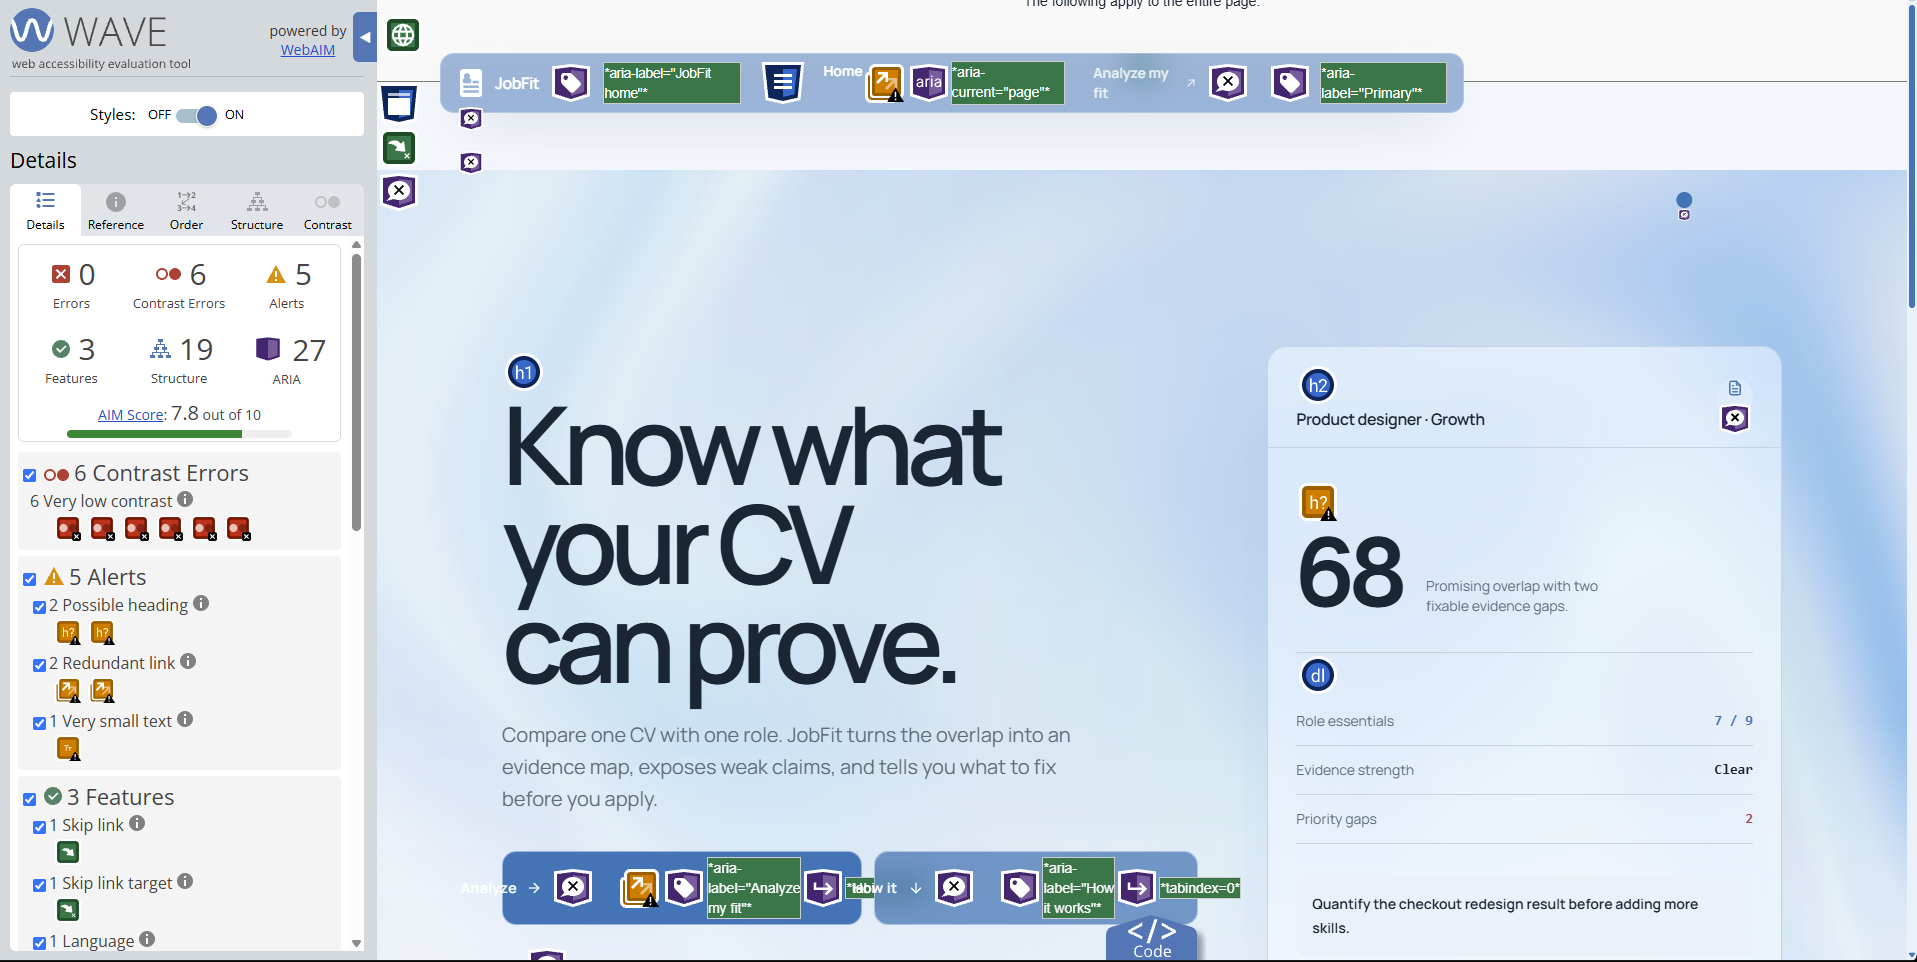
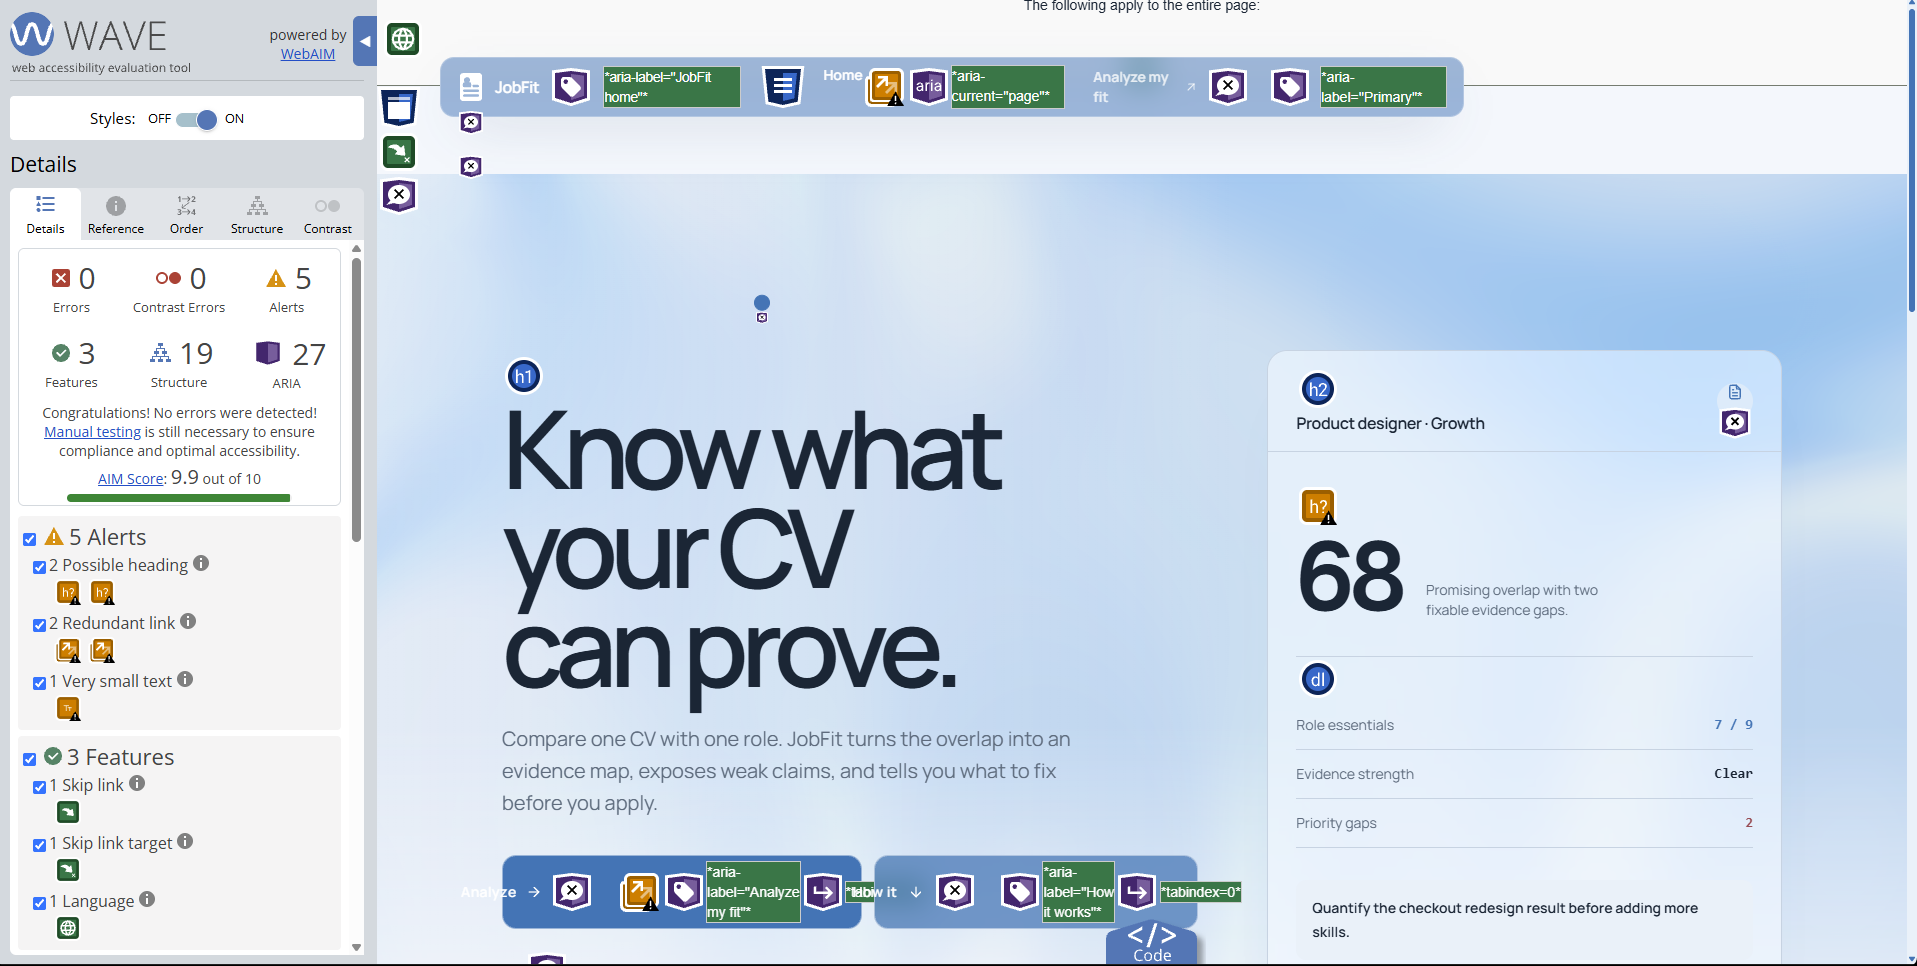
chore: finalize capstone submission

diff --git a/src/components/analyze/AnalyzeWorkspace.test.tsx b/src/components/analyze/AnalyzeWorkspace.test.tsx
@@ -19,6 +19,29 @@ describe("AnalyzeWorkspace", () => {
     expect(screen.getByText("Please provide a job description.")).toBeInTheDocument();
   });
 
+  it("keeps the complete form flow keyboard accessible", async () => {
+    const user = userEvent.setup();
+    render(<AnalyzeWorkspace />);
+
+    const cvInput = screen.getByLabelText("CV");
+    const uploadButton = screen.getByRole("button", { name: /Drop your PDF here/ });
+    const jobDescription = screen.getByLabelText("Job description");
+    const submitButton = screen.getByRole("button", { name: "Analyze my fit" });
+
+    await user.tab();
+    expect(cvInput).toHaveFocus();
+    await user.tab();
+    expect(uploadButton).toHaveFocus();
+    await user.tab();
+    expect(jobDescription).toHaveFocus();
+    await user.tab();
+    expect(submitButton).toHaveFocus();
+
+    await user.keyboard("{Enter}");
+    expect(screen.getByText("Please upload your CV first.")).toBeInTheDocument();
+    expect(screen.getByText("Please provide a job description.")).toBeInTheDocument();
+  });
+
   it("shows the loading state and then the analysis", async () => {
     const user = userEvent.setup();
     vi.stubGlobal(

diff --git a/src/app/error.test.tsx b/src/app/error.test.tsx
@@ -1,0 +1,25 @@
+import { render, screen } from "@testing-library/react";
+import userEvent from "@testing-library/user-event";
+import { afterEach, describe, expect, it, vi } from "vitest";
+import ErrorPage from "@/app/error";
+
+describe("route error recovery", () => {
+  afterEach(() => {
+    vi.restoreAllMocks();
+  });
+
+  it("offers retry and home recovery actions", async () => {
+    const user = userEvent.setup();
+    const retry = vi.fn();
+    const error = Object.assign(new Error("Route failed"), { digest: "test-digest" });
+    vi.spyOn(console, "error").mockImplementation(() => undefined);
+
+    render(<ErrorPage error={error} retry={retry} />);
+
+    expect(screen.getByRole("heading", { name: "We could not load this page." })).toBeInTheDocument();
+    expect(screen.getByRole("link", { name: "Return home" })).toHaveAttribute("href", "/");
+
+    await user.click(screen.getByRole("button", { name: "Try again" }));
+    expect(retry).toHaveBeenCalledOnce();
+  });
+});

diff --git a/docs/audit-results.md b/docs/audit-results.md
@@ -1,6 +1,6 @@
 # Audit results
 
-Production audit evidence was captured on September 24, 2026. The screenshots use the `jobfit-ai-app.vercel.app` Vercel alias; its content matched the canonical production URL, `https://jobfit-one-alpha.vercel.app`, at the time of the audit. The canonical URL is confirmed by the production `robots.txt` and sitemap.
+Production audit evidence was captured on September 24, 2026, and the corrected home-page WAVE result was captured on September 25, 2026. The screenshots use the `jobfit-ai-app.vercel.app` Vercel alias; its content matched the canonical production URL, `https://jobfit-one-alpha.vercel.app`, at the time of the audit. The canonical URL is confirmed by the production `robots.txt` and sitemap.
 
 ## Accessibility
 
@@ -15,18 +15,16 @@ Implementation checks:
 
 | Tool | Route | Errors | Contrast errors | Alerts | AIM score | Evidence |
 | --- | --- | ---: | ---: | ---: | ---: | --- |
-| WAVE | `/` | 0 | 6 | 5 | 7.8 / 10 | [`wave_mainPage.png`](./wave_mainPage.png) |
+| WAVE | `/` | 0 | 0 | 5 | 9.9 / 10 | [`wave_mainPage.png`](./wave_mainPage.png) |
 | WAVE | `/analyze` | 0 | 0 | 1 | 10 / 10 | [`wave_analyze.png`](./wave_analyze.png) |
 
-### Known accessibility limitation
+### Alert review
 
-The WAVE scan of `/` reports six very-low-contrast findings in the hero. They are low-emphasis supporting text over the light animated visual. The current visual treatment is intentional and remains readable in the manually reviewed rendered page, but this is not equivalent to passing WCAG contrast requirements. The issue is recorded rather than hidden or reported as a clean accessibility result. The `/analyze` route has no WAVE errors or contrast errors.
-
-WAVE also reports non-blocking advisory alerts: five on `/` and one redundant-link alert on `/analyze`. They do not represent WAVE errors.
+The remaining WAVE items are advisory alerts rather than detected WCAG errors. On `/`, two possible-heading alerts identify prominent display text inside illustrative content, two redundant-link alerts reflect repeated navigation destinations, and one very-small-text alert identifies a short decorative status label. `/analyze` reports one redundant-link alert. The pages retain semantic section headings, accessible link names, keyboard access, and `0` WAVE contrast errors.
 
 ## Lighthouse
 
-Target: 85+ on mobile and desktop, with 90+ as the stretch goal. The attached evidence records mobile audits; no desktop screenshot is included in this audit set.
+Target: 85+ Performance, with 90+ as the stretch goal and mobile emphasized by the brief. The attached evidence records mobile audits.
 
 Local production build command:
 
@@ -48,4 +46,4 @@ Expected strengths: no client-side LLM SDK, client-only WebGPU visuals with CSS 
 
 ## One concrete improvement from the audit
 
-The visual runtime was simplified before the final Lighthouse pass: unnecessary hero layers were removed and Next.js now optimizes imports from `shaders/react`. The recorded mobile Performance scores are 90 on `/` and 89 on `/analyze` while preserving the existing visual design.
+The initial WAVE scan found six low-contrast microcopy labels in the process illustration. Those six labels now use a scoped darker blue (`#174260`) without changing the shader, layout, or global palette. The repeat audit improved `/` from six contrast errors and an AIM score of 7.8 to zero contrast errors and an AIM score of 9.9.

diff --git a/docs/deployment-checklist.md b/docs/deployment-checklist.md
@@ -2,8 +2,9 @@
 
 Project: JobFit  
 Environment: production (Vercel)  
-Owner: repository maintainer  
-Status: deployed; server-side flow, mobile Lighthouse, and WAVE audits verified. Remaining manual resilience and keyboard walkthrough checks are listed below.
+Owner: 808StaN
+
+Status: ready for submission; production flow, automated verification, mobile Lighthouse, and WAVE audits passed
 
 ## Before deploy
 
@@ -34,12 +35,12 @@ Status: deployed; server-side flow, mobile Lighthouse, and WAVE audits verified.
 ## After deploy
 
 - [x] Open `/` and confirm the hero visual and Analyze my fit CTA
-- [ ] Open `/analyze` and confirm keyboard access through CV upload, job description, and submit
-- [ ] Submit without a file and confirm inline errors
+- [x] Confirm keyboard access through CV upload, job description, and submit (`AnalyzeWorkspace.test.tsx`)
+- [x] Submit without a file and confirm inline errors (`AnalyzeWorkspace.test.tsx` and production API verification)
 - [x] Submit a real text-based PDF plus a job description and confirm a structured result
 - [x] Trigger Improve on one existing bullet
-- [ ] Confirm a missing-key or provider error renders the fallback message instead of a blank page
-- [ ] Confirm route-level error recovery renders a retry action instead of a blank page
+- [x] Confirm a missing-key or provider error renders the fallback message instead of a blank page (provider and workspace tests)
+- [x] Confirm route-level error recovery renders retry and home actions instead of a blank page (`src/app/error.test.tsx`)
 - [x] Paste the live URL into README.md
 - [x] Paste the GitHub repository URL into the portfolio entry
 - [x] Run mobile Lighthouse and WAVE against the production URL, then record the results in `docs/audit-results.md`
@@ -54,10 +55,16 @@ Production verification on 2026-09-22:
 - `POST /api/analyze` with a public text PDF returned `200` with a validated analysis object.
 - `POST /api/improve-bullet` returned `200` with a validated rewrite object.
 
-Audit evidence on 2026-09-24:
+Audit evidence on 2026-09-24 and 2026-09-25:
 
 - Mobile Lighthouse: `/` scored `90 / 100 / 100 / 100`; `/analyze` scored `89 / 100 / 100 / 100` for Performance, Accessibility, Best Practices, and SEO.
-- WAVE: `/analyze` had `0` errors and `0` contrast errors. `/` had `0` errors, `6` contrast errors, and `5` advisory alerts; the contrast findings are recorded as a known limitation in `docs/audit-results.md`.
+- WAVE: both `/` and `/analyze` had `0` errors and `0` contrast errors. The corrected `/` audit reached an AIM score of `9.9 / 10`.
+
+Final verification on 2026-09-25:
+
+- `npm run test:coverage`: 21 test files and 86 tests passed; all coverage metrics exceeded the 50% threshold.
+- `npm run lint`: passed.
+- `npm run build`: passed with all application routes generated successfully.
 
 ## Rollback
 
@@ -67,4 +74,4 @@ If a release is broken:
 2. Promote the last successful production deployment, or redeploy the previous git SHA from `main`.
 3. Confirm `/analyze` returns a safe error or a valid analysis before announcing recovery.
 
-Sign-off: checklist prepared with the first production-ready codebase. Final production URL is recorded after the Vercel project is connected.
+Sign-off: 808StaN, 2026-09-25. Production URL, rollback path, monitoring, audits, error recovery, and automated verification are documented and ready for submission.

diff --git a/README.md b/README.md
@@ -1,8 +1,8 @@
 # JobFit
 
-JobFit helps a candidate check how well one CV matches one job description, then turns the gap into a short, evidence-based action plan.
+## Project brief
 
-This is a small production frontend for the Frontend AI Engineering capstone. It is not a chatbot. The model compares a PDF CV with a pasted job posting and returns structured recommendations. Missing experience stays missing.
+JobFit helps frontend and software-engineering candidates compare one PDF CV with one job description and turn the evidence gap into a focused revision plan. I chose this idea because generic AI career tools often behave like chatbots and overstate a candidate's experience; JobFit instead constrains the model to structured, evidence-based recommendations and keeps missing experience missing.
 
 ## Live app
 
@@ -10,10 +10,6 @@ This is a small production frontend for the Frontend AI Engineering capstone. It
 - Production URL: https://jobfit-one-alpha.vercel.app
 - Source repository: https://github.com/808StaN/JobFit
 - Analysis workspace: `/analyze`
-
-## Who it is for
-
-Frontend and software-engineering candidates who want a last review before sending an application. The score is an orientation signal for CV-to-role overlap. It is not a prediction of hiring outcome.
 
 ## Quick start
 
@@ -112,6 +108,8 @@ The optional **Improve** action rewrites one existing bullet against the same jo
 
 CV files are processed in memory for the current request. They are not written to disk or a database.
 
+Visible failure behavior is verified by the analysis-workspace integration tests and the route-level recovery test. The UI renders inline validation, an API/provider fallback alert, and a recovery page with `Try again` and `Return home` actions instead of failing to a blank screen.
+
 ## Testing
 
 ```bash
@@ -121,7 +119,7 @@ npm run test:coverage
 
 Coverage includes form validation, PDF rejection, schema fallback, API routes, the analysis workspace, results rendering, and the bullet rewrite flow. CI enforces a 50% minimum for statements, branches, functions, and lines.
 
-Latest local verification on 2026-09-25: 84 passing tests; 73.40% statements, 68.57% branches, 76.66% functions, and 73.68% lines.
+Latest local verification on 2026-09-25: 86 passing tests; 73.40% statements, 68.57% branches, 76.66% functions, and 73.68% lines. The command output and critical-flow inventory are recorded in [`docs/test-results.md`](docs/test-results.md).
 
 ## Accessibility and performance
 
@@ -129,7 +127,7 @@ Latest local verification on 2026-09-25: 84 passing tests; 73.40% statements, 68
 - `aria-live` progress and `role="alert"` errors
 - Blue action and focus tokens are designed to retain contrast against white surfaces
 - Mobile Lighthouse on September 24, 2026: `/` scored `90 / 100 / 100 / 100`; `/analyze` scored `89 / 100 / 100 / 100` for Performance, Accessibility, Best Practices, and SEO
-- WAVE found no errors on either route; `/analyze` had no contrast errors, while six intentional low-emphasis hero contrast findings on `/` are documented as a known limitation
+- WAVE found `0` errors and `0` contrast errors on both audited routes after the process microcopy contrast was corrected
 - Lighthouse and WAVE evidence live in `docs/audit-results.md`
 
 ## Deployment

diff --git a/docs/test-results.md b/docs/test-results.md
@@ -1,0 +1,33 @@
+# Test results
+
+Final local verification was run on September 25, 2026 with Node.js 24.21.0.
+
+## Command
+
+```bash
+npm run test:coverage
+```
+
+## Output
+
+```text
+Test Files  21 passed (21)
+Tests       86 passed (86)
+
+Coverage summary
+Statements : 73.40% (563/767)
+Branches   : 68.57% (419/611)
+Functions  : 76.66% (115/150)
+Lines      : 73.68% (546/741)
+```
+
+The configured threshold is 50% for statements, branches, functions, and lines. All four metrics pass.
+
+## Critical flow evidence
+
+- `AnalyzeWorkspace.test.tsx`: missing-input validation, keyboard traversal, loading state, successful structured analysis, safe API failure, and replacement-analysis behavior.
+- `CvUpload.test.tsx` and `JobDescriptionField.test.tsx`: file handling, invalid input, text entry, and character counting.
+- `ImproveBullet.test.tsx`: existing-bullet validation, AI rewrite result, and clipboard action.
+- `error.test.tsx`: route-level retry and return-home recovery actions.
+- API and provider tests: malformed model output, schema validation, missing configuration, Groq-to-OpenRouter fallback, timeouts, and safe error responses.
+- UI tests: analysis results, progress announcements, navigation, custom cursor behavior, and accessible action controls.
